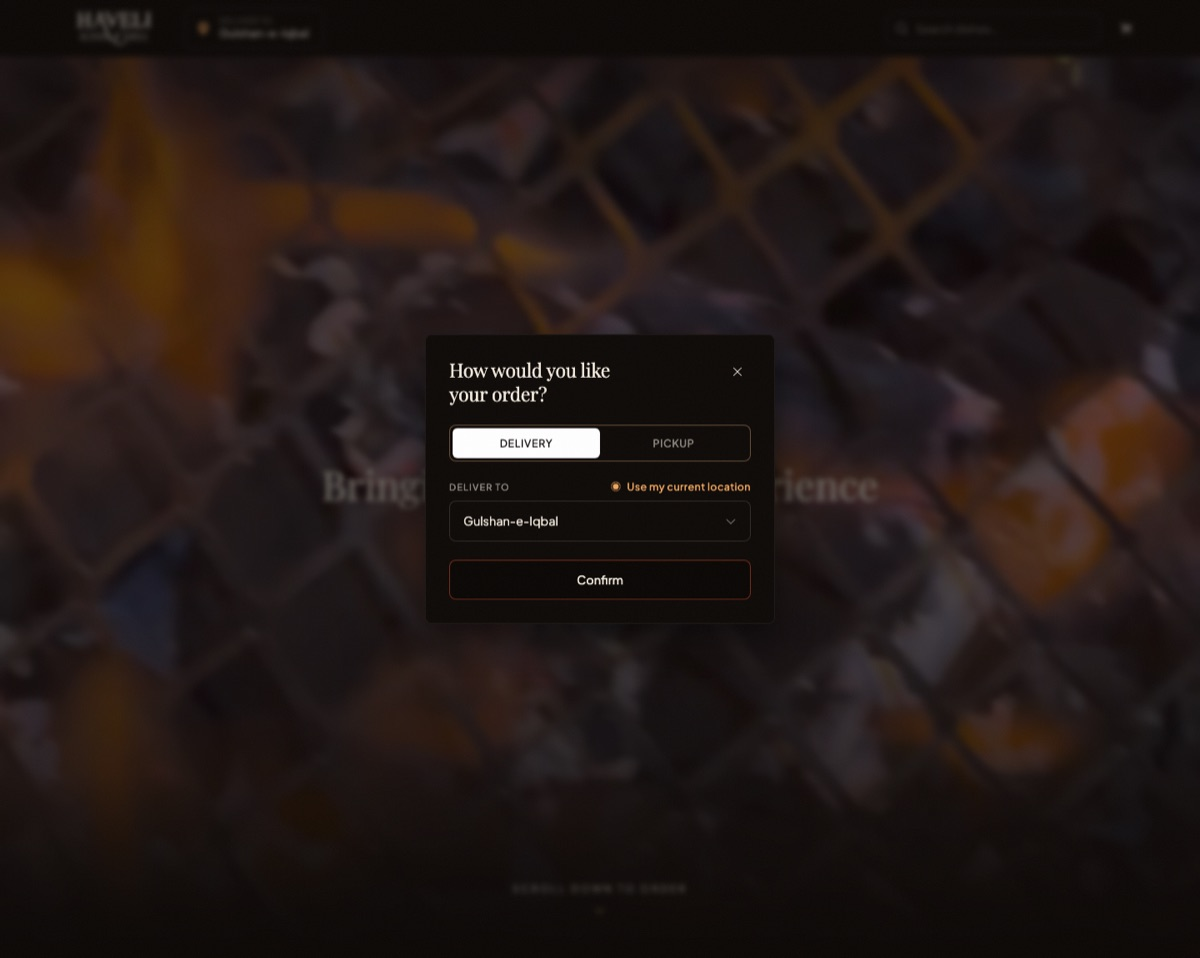
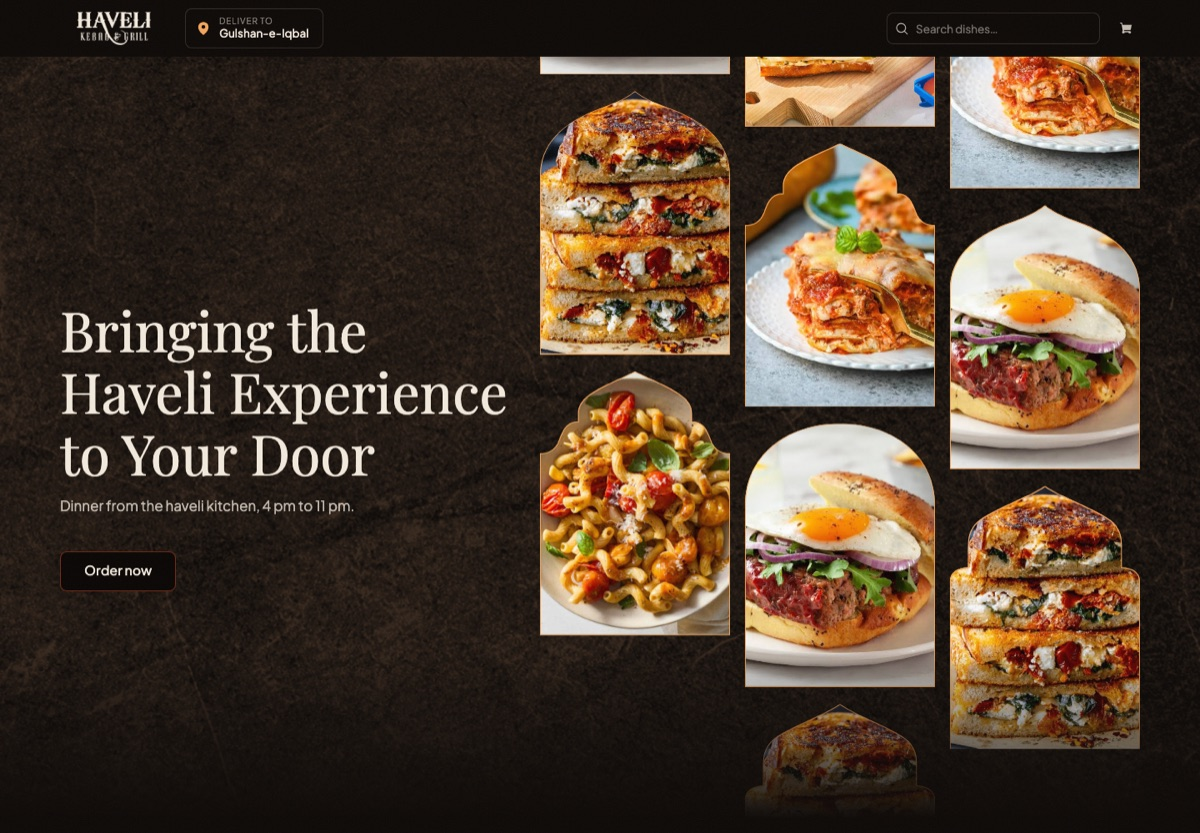
fix(haveli): clean dish photos in the hero mosaic
The dinner hero arches pulled foodpanda 'reference only' watermarked
images from the menu. Point them at the clean local lunch-hero photos
(same ones lunch mode already used). Refresh the card shot.

diff --git a/public/prototypes/haveli/index.html b/public/prototypes/haveli/index.html
@@ -2720,13 +2720,13 @@ function showView(name) {
   const step=Math.max(1,Math.floor(imgs.length/slots.length));
   slots.forEach((im,i)=>{ im.dataset.dsrc=imgs[(i*step)%imgs.length]; });
   const LUNCH=[['assets/lunch-hero-5.jpg','center 62%'],['assets/lunch-hero-1.jpg','center 55%'],['assets/lunch-hero-2.jpg','center 45%'],['assets/lunch-hero-4.jpg','center'],['assets/lunch-hero-3.jpg','32% 62%']];
-  const applyMeal=()=>{ const lunch=document.body.dataset.meal==='lunch';
-    slots.forEach((im,i)=>{ const l=LUNCH[i%LUNCH.length]; const src=lunch?l[0]:im.dataset.dsrc;
-      if(im.getAttribute('src')!==src){ im.src=src; im.onerror=lunch?null:()=>{ im.src=imgs[(i*step+1)%imgs.length]; }; }
-      im.style.objectPosition=lunch?l[1]:''; }); };
+  const applyMeal=()=>{
+    slots.forEach((im,i)=>{ const l=LUNCH[i%LUNCH.length]; const src=l[0];
+      if(im.getAttribute('src')!==src){ im.src=src; im.onerror=null; }
+      im.style.objectPosition=l[1]; }); };
   applyMeal(); new MutationObserver(applyMeal).observe(document.body,{attributes:true,attributeFilter:['data-meal']});
   /* rotate the arch photos: one arch at a time crossfades to a dish not already on screen */
-  const pool=()=> document.body.dataset.meal==='lunch' ? LUNCH : imgs.map(s=>[s,'']);
+  const pool=()=> LUNCH;
   let rot=0, busy=false;
   const rotate=()=>{
     if(!matchMedia('(max-width: 768px)').matches) return;
